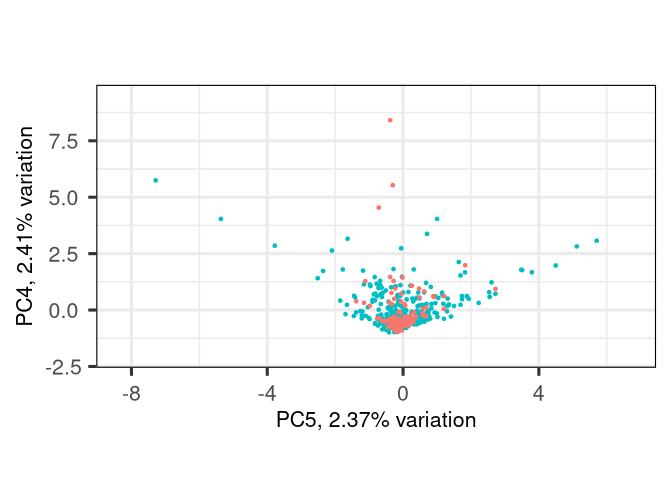
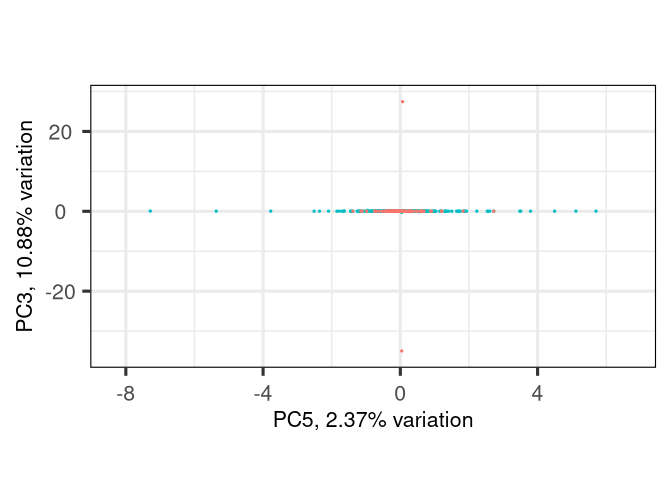
Se incluye heatmap sobre la matriz transformada con VST

diff --git a/Otus_t2d.md b/Otus_t2d.md
@@ -24,6 +24,7 @@ library(dplyr)
 library(stringr)
 library(DESeq2)
 library(PCAtools)
+library(pheatmap)
 ```
 
 
@@ -339,8 +340,17 @@ pairsplot(pca_rlog, axisLabSize = 5 , colby = 'condition', components = getCompo
 ![](Otus_t2d_files/figure-html/unnamed-chunk-16-2.png)<!-- -->
 
 ```r
-biplot(pca_rlog, x="PC5", y = "PC4" ,colby = 'condition', showLoadings = F, lab = NULL, pointSize = 1)
+biplot(pca_rlog, x="PC5", y = "PC3" ,colby = 'condition', showLoadings = F, lab = NULL, pointSize = .5)
 ```
 
 ![](Otus_t2d_files/figure-html/unnamed-chunk-16-3.png)<!-- -->
+
+
+```r
+vst_cor = cor(vst)
+pheatmap(vst_cor, fontsize = 7, border_color = NA, annotation_row = coldata_mod, annotation_col = coldata_mod, show_rownames = F, show_colnames = F, labels_row = NULL, annotation_legend = T)
+```
+
+![](Otus_t2d_files/figure-html/unnamed-chunk-17-1.png)<!-- -->
+
 
